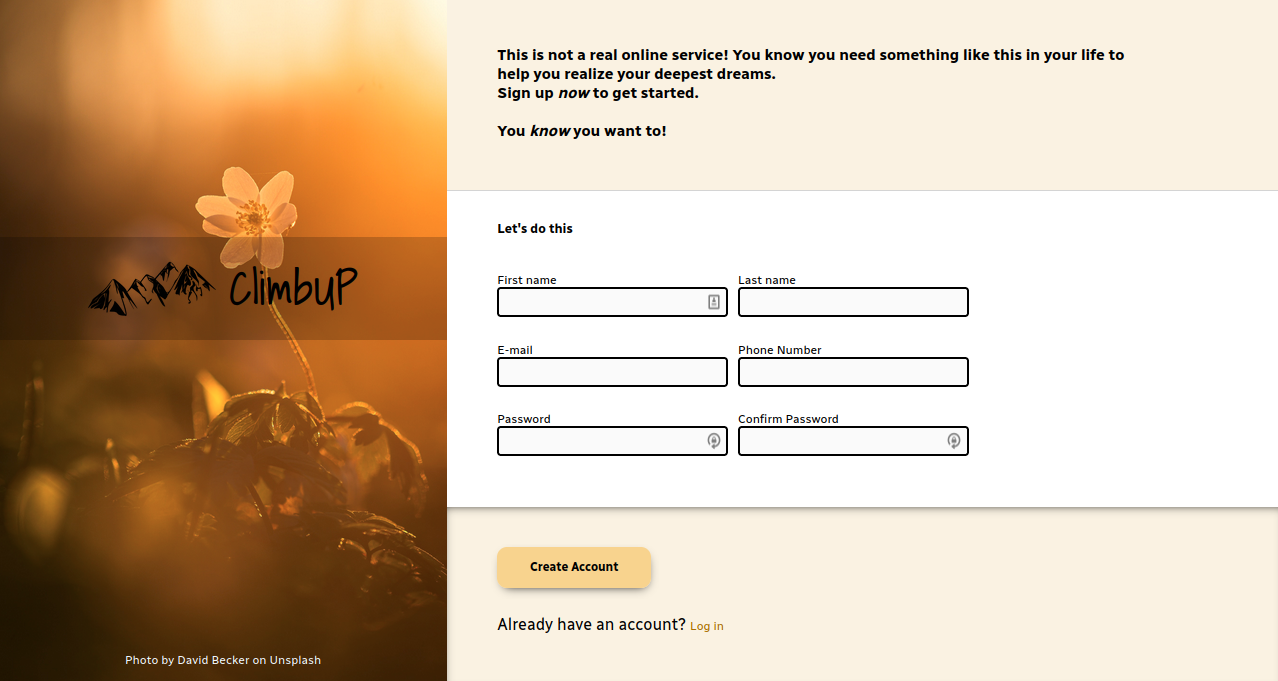
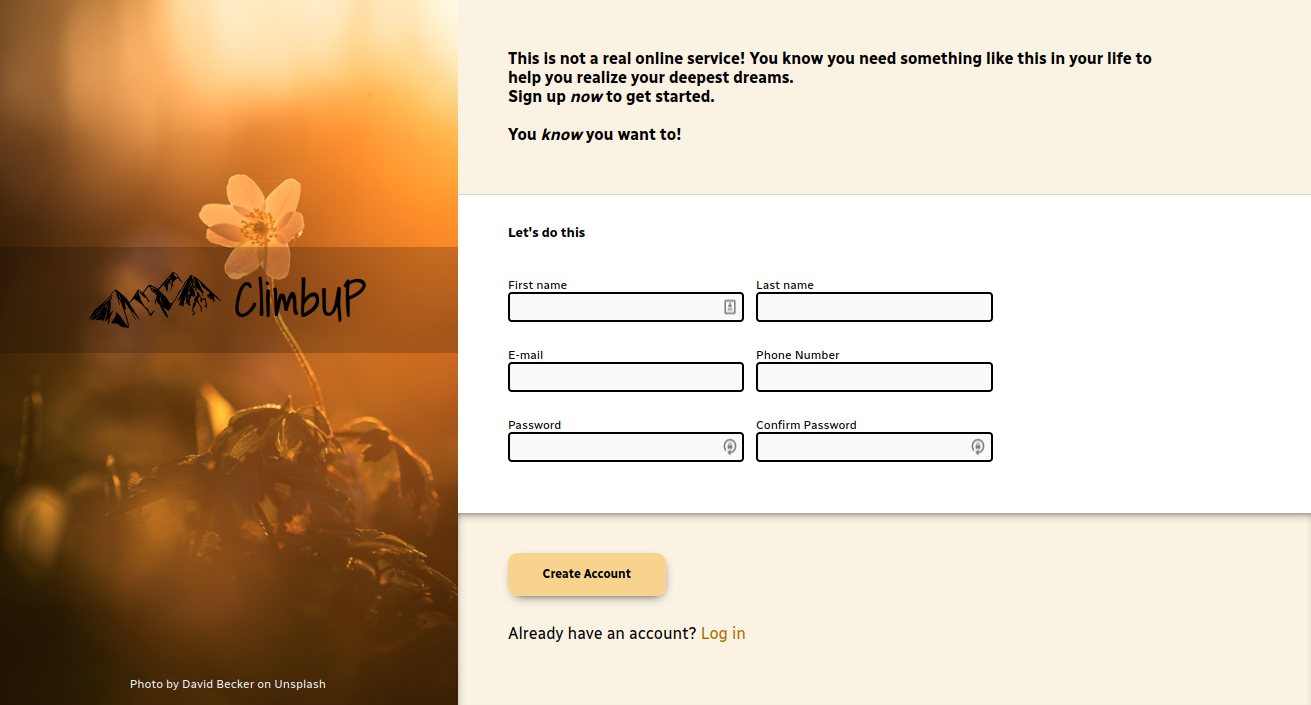
Fixed link wrong font size

diff --git a/style.css b/style.css
@@ -178,10 +178,7 @@ input:focus{border: 2px solid rgb(243, 189, 88);}
 
   #submit p {margin-top: 4vh;}
 
-  #submit a{
-      color: rgb(168, 109, 0);
-      font-size: max(12px, 0.9vw);
-    }
+  #submit a{color: rgb(168, 109, 0);}
 
   #submit a:hover{color: rgb(87, 56, 0);}
 
